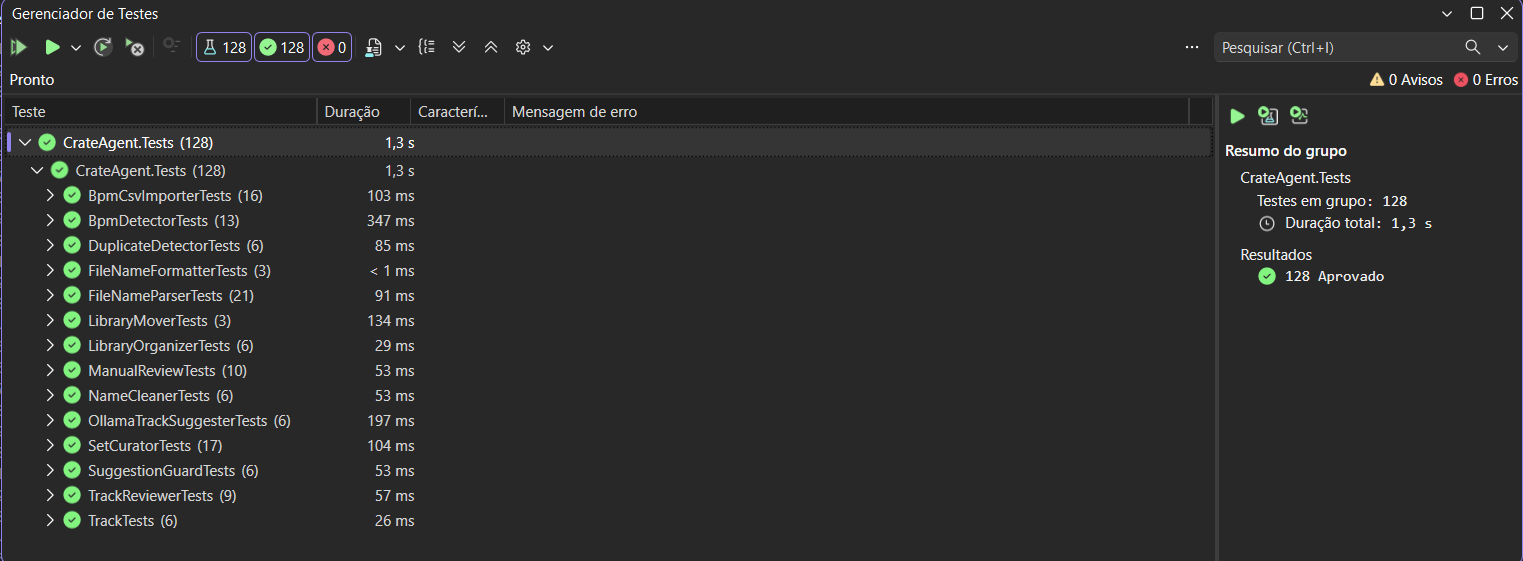
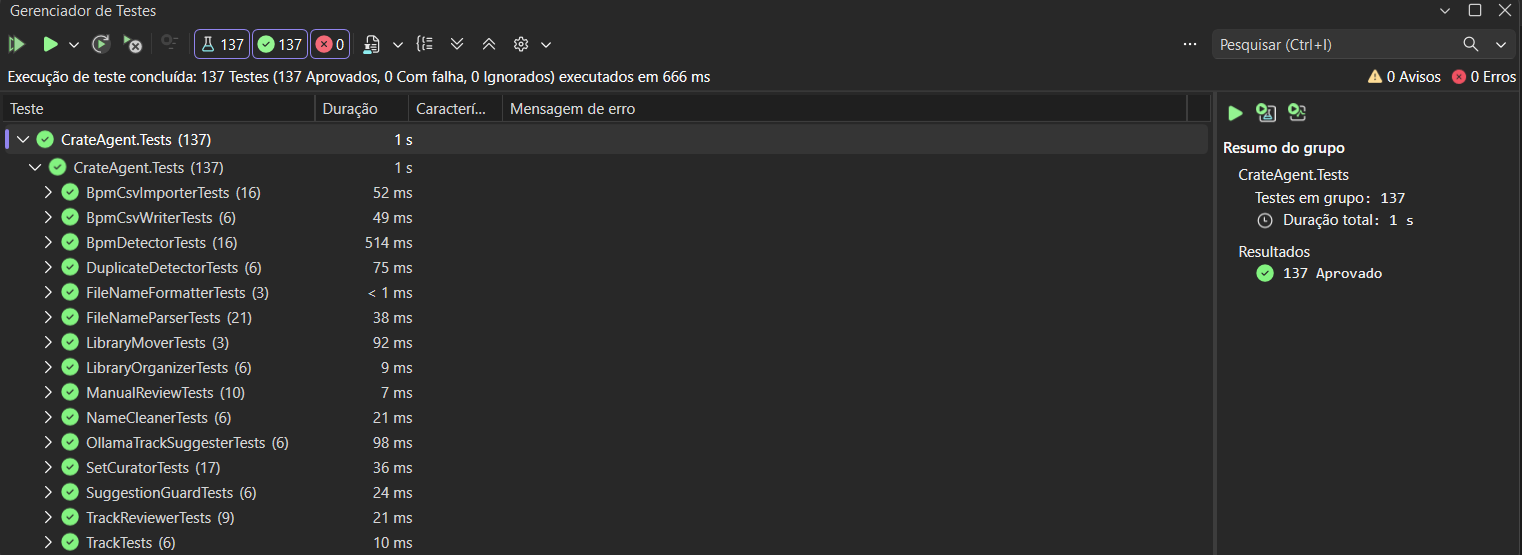
Adiciona diagnóstico de candidatos de BPM

diff --git a/CrateAgent.Core/Services/BpmDetector.cs b/CrateAgent.Core/Services/BpmDetector.cs
@@ -2,6 +2,8 @@
 
 public enum BpmVerdict { Ok, Double, Half, Other }
 
+public record BpmCandidate(double Bpm, double Score);
+
 public static class BpmDetector
 {
     private const double StartSeconds = 30;   // pula a introdução, se a faixa for longa
@@ -10,8 +12,75 @@ public static class BpmDetector
     private const double CutoffHz = 150;      // só os graves (bumbo)
     private const int MinFrames = 500;        // menos de ~5 s não dá para medir
     private const double Step = 0.1;
+    private const double MinPeakSeparation = 3.0;
 
     public static double? Detect(float[] samples, int sampleRate, double minBpm = 90, double maxBpm = 180)
+    {
+        var curve = ScoreCurve(samples, sampleRate, minBpm, maxBpm);
+
+        if (curve is null)
+            return null;
+
+        var best = 0;
+
+        for (var i = 1; i < curve.Length; i++)
+        {
+            if (curve[i].Score > curve[best].Score)
+                best = i;
+        }
+
+        return Math.Round(curve[best].Bpm, 1);
+    }
+
+    // os melhores picos da curva de pontuação, separados por pelo menos 3 BPM
+    public static IReadOnlyList<BpmCandidate> TopCandidates(
+        float[] samples, int sampleRate, int count = 5, double minBpm = 90, double maxBpm = 180)
+    {
+        var curve = ScoreCurve(samples, sampleRate, minBpm, maxBpm);
+
+        if (curve is null || count <= 0)
+            return Array.Empty<BpmCandidate>();
+
+        var peaks = new List<BpmCandidate>();
+
+        for (var i = 0; i < curve.Length; i++)
+        {
+            var left = i == 0 ? double.MinValue : curve[i - 1].Score;
+            var right = i == curve.Length - 1 ? double.MinValue : curve[i + 1].Score;
+
+            if (curve[i].Score > left && curve[i].Score >= right)
+                peaks.Add(curve[i]);
+        }
+
+        var selected = new List<BpmCandidate>();
+
+        foreach (var peak in peaks.OrderByDescending(p => p.Score))
+        {
+            if (selected.All(s => Math.Abs(s.Bpm - peak.Bpm) >= MinPeakSeparation))
+                selected.Add(peak);
+
+            if (selected.Count == count)
+                break;
+        }
+
+        return selected.Select(c => c with { Bpm = Math.Round(c.Bpm, 1) }).ToList();
+    }
+
+    public static BpmVerdict Classify(double detected, double expected)
+    {
+        if (Math.Abs(detected - expected) <= 1.0)
+            return BpmVerdict.Ok;
+
+        if (Math.Abs(detected - expected * 2) <= 2.0)
+            return BpmVerdict.Double;
+
+        if (Math.Abs(detected - expected / 2) <= 1.0)
+            return BpmVerdict.Half;
+
+        return BpmVerdict.Other;
+    }
+
+    private static BpmCandidate[]? ScoreCurve(float[] samples, int sampleRate, double minBpm, double maxBpm)
     {
         if (samples.Length == 0 || sampleRate <= 0 || maxBpm <= minBpm)
             return null;
@@ -89,8 +158,11 @@ public static class BpmDetector
 
         // 4. para cada BPM candidato, soma a correlação em 1, 2, 3 e 4 tempos
         var steps = (int)Math.Round((maxBpm - minBpm) / Step);
-        var bestBpm = minBpm;
-        var bestScore = double.MinValue;
+
+        if (steps <= 0)
+            return null;
+
+        var curve = new BpmCandidate[steps];
 
         for (var s = 0; s < steps; s++)
         {
@@ -101,27 +173,9 @@ public static class BpmDetector
             for (var k = 1; k <= 4; k++)
                 score += Correlation(k * period);
 
-            if (score > bestScore)
-            {
-                bestScore = score;
-                bestBpm = bpm;
-            }
+            curve[s] = new BpmCandidate(bpm, score);
         }
 
-        return Math.Round(bestBpm, 1);
-    }
-
-    public static BpmVerdict Classify(double detected, double expected)
-    {
-        if (Math.Abs(detected - expected) <= 1.0)
-            return BpmVerdict.Ok;
-
-        if (Math.Abs(detected - expected * 2) <= 2.0)
-            return BpmVerdict.Double;
-
-        if (Math.Abs(detected - expected / 2) <= 1.0)
-            return BpmVerdict.Half;
-
-        return BpmVerdict.Other;
+        return curve;
     }
 }

diff --git a/CrateAgent.Cli/Program.cs b/CrateAgent.Cli/Program.cs
@@ -5,7 +5,7 @@ using CrateAgent.Core.Services;
 Console.OutputEncoding = Encoding.UTF8;
 
 // ===== Menu =====
-Console.Write("1 = Organizar | 2 = Desfazer | 3 = Avaliar gabarito | 4 = Importar BPM | 5 = Montar set | 6 = Detectar BPM (medir) | 7 = Detectar BPM (salvar em CSV): ");
+Console.Write("1 = Organizar | 2 = Desfazer | 3 = Avaliar gabarito | 4 = Importar BPM | 5 = Montar set | 6 = Detectar BPM (medir) | 7 = Detectar BPM (salvar em CSV) | 8 = Diagnosticar BPM: ");
 var opcao = Console.ReadLine()?.Trim();
 
 if (opcao == "2")
@@ -326,6 +326,60 @@ if (opcao == "7")
     Console.WriteLine($"\n{salvas} BPM(s) salvos em {csvSaida}");
     Console.WriteLine($"Sem resultado ou falha: {falhasBpm} | Nome não suportado: {nomesInvalidos}");
     Console.WriteLine("Para usar no curador, informe esse CSV na opção 5.");
+    return;
+}
+
+// ===== Diagnosticar BPM: mostra os melhores candidatos de cada faixa =====
+if (opcao == "8")
+{
+    Console.WriteLine("Digite um trecho do nome do arquivo (Enter para sair).");
+
+    while (true)
+    {
+        Console.Write("\nTrecho do nome: ");
+        var trecho = Console.ReadLine()?.Trim();
+
+        if (string.IsNullOrWhiteSpace(trecho))
+            break;
+
+        var achadas = tracks
+            .Where(x => x.FilePath.EndsWith(".mp3", StringComparison.OrdinalIgnoreCase) &&
+                        Path.GetFileName(x.FilePath).Contains(trecho, StringComparison.OrdinalIgnoreCase))
+            .ToList();
+
+        if (achadas.Count == 0)
+        {
+            Console.WriteLine("Nenhum MP3 encontrado com esse trecho.");
+            continue;
+        }
+
+        foreach (var faixaDiag in achadas)
+        {
+            Console.WriteLine($"\n{Path.GetFileName(faixaDiag.FilePath)}");
+
+            try
+            {
+                var (amostrasDiag, taxaDiag) = Mp3Decoder.ReadMono(faixaDiag.FilePath);
+                var candidatosDiag = BpmDetector.TopCandidates(amostrasDiag, taxaDiag);
+
+                if (candidatosDiag.Count == 0)
+                {
+                    Console.WriteLine("   sem resultado");
+                    continue;
+                }
+
+                var melhor = candidatosDiag[0].Score;
+
+                foreach (var candidato in candidatosDiag)
+                    Console.WriteLine($"   {candidato.Bpm,6:F1} BPM   {candidato.Score / melhor,4:P0} da melhor");
+            }
+            catch (Exception ex)
+            {
+                Console.WriteLine($"   FALHOU: {ex.Message}");
+            }
+        }
+    }
+
     return;
 }
 

diff --git a/CrateAgent.Tests/BpmDetectorTests.cs b/CrateAgent.Tests/BpmDetectorTests.cs
@@ -86,4 +86,38 @@ public class BpmDetectorTests
     {
         Assert.Equal(veredito, BpmDetector.Classify(detectado, esperado));
     }
+
+    [Fact]
+    public void TopCandidates_PrimeiroEIgualAoDetect()
+    {
+        var faixa = ClickTrack(128);
+
+        var candidatos = BpmDetector.TopCandidates(faixa, SampleRate);
+
+        Assert.NotEmpty(candidatos);
+        Assert.Equal(BpmDetector.Detect(faixa, SampleRate)!.Value, candidatos[0].Bpm);
+    }
+
+    [Fact]
+    public void TopCandidates_SaoOrdenadosPorPontuacaoESeparados()
+    {
+        var candidatos = BpmDetector.TopCandidates(ClickTrack(140), SampleRate, count: 5);
+
+        Assert.InRange(candidatos.Count, 2, 5);
+
+        for (var i = 1; i < candidatos.Count; i++)
+            Assert.True(candidatos[i].Score <= candidatos[i - 1].Score);
+
+        for (var i = 0; i < candidatos.Count; i++)
+        {
+            for (var j = i + 1; j < candidatos.Count; j++)
+                Assert.True(Math.Abs(candidatos[i].Bpm - candidatos[j].Bpm) >= 2.9);
+        }
+    }
+
+    [Fact]
+    public void TopCandidates_SemSinal_RetornaVazio()
+    {
+        Assert.Empty(BpmDetector.TopCandidates(new float[SampleRate * 40], SampleRate));
+    }
 }
